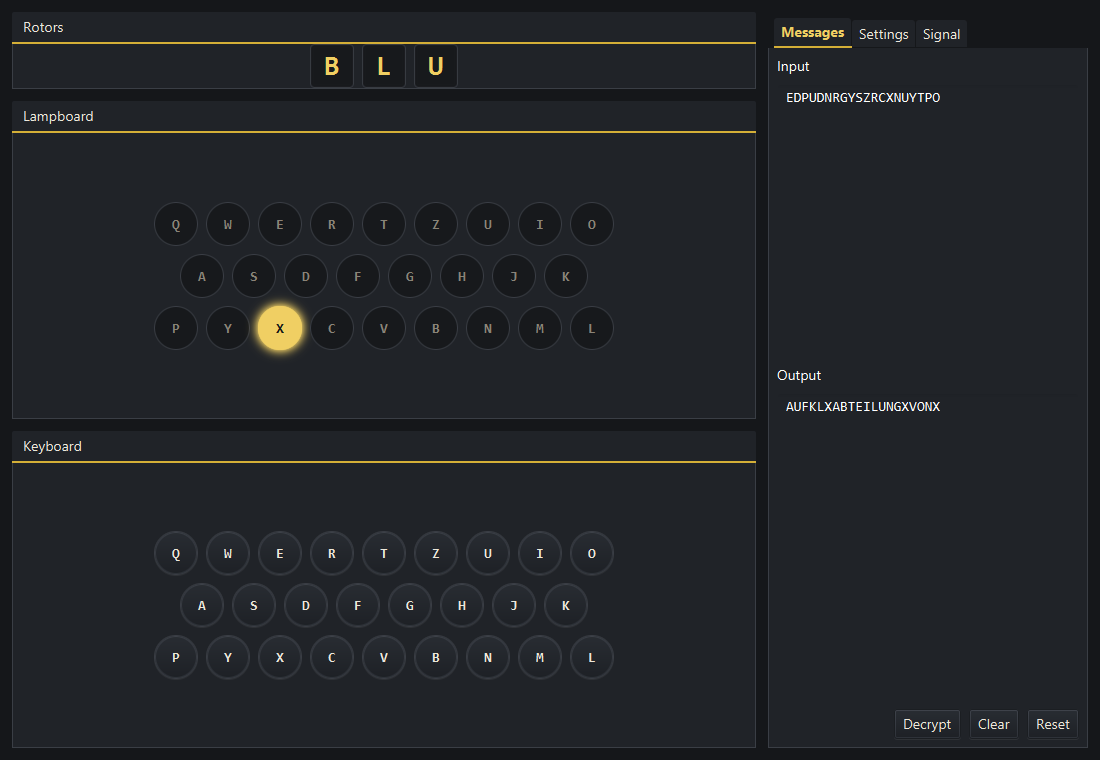
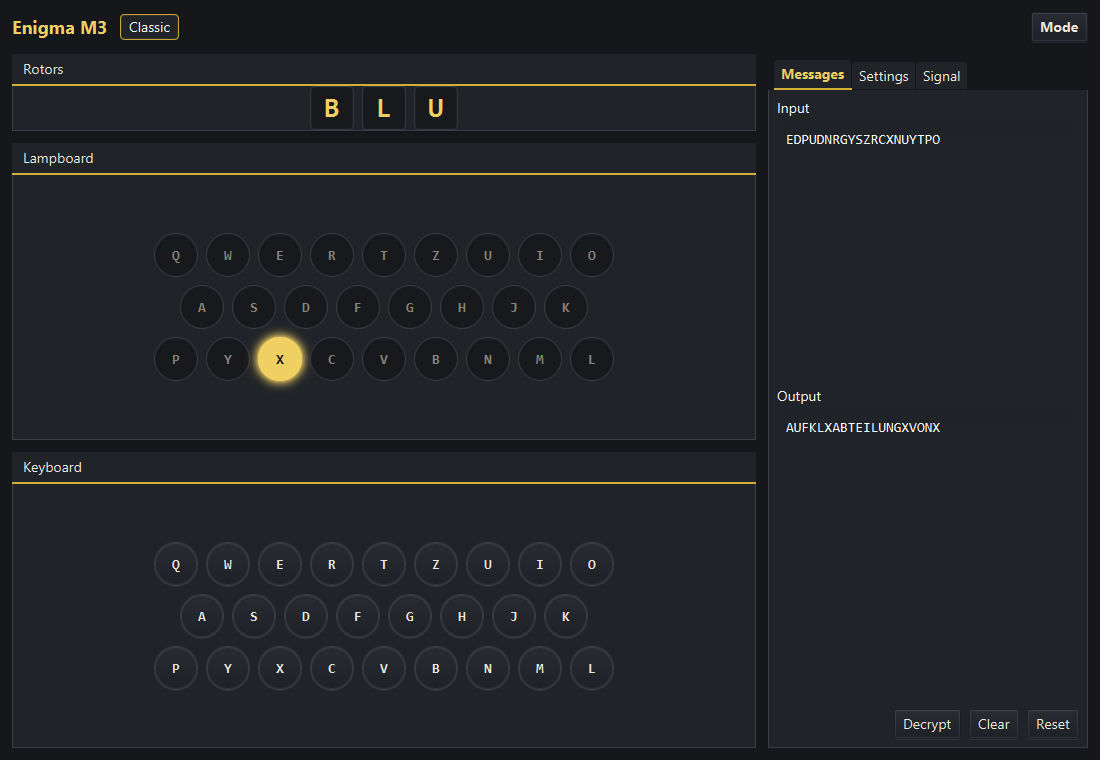
docs: document interface modes and diagram controls

diff --git a/README.md b/README.md
@@ -12,8 +12,9 @@ A desktop simulator of the three-rotor Enigma M3, built to be historically accur
 - Settings are edited apart from the running machine and take effect only when applied.
 - Settings can be saved to and loaded from JSON files.
 - An animated signal path shows every component a letter passes through, with an educational step-by-step mode.
+- Two interface modes in the same window: **Classic**, with the rotor windows and lampboard, and **Diagram**, which draws every contact and wire of the reflector, rotors and plugboard and lights the path of each letter.
 - Every action has a keyboard shortcut. Lamps, rotors and plugboard sockets are described for screen readers.
-- Checked against real messages from 1941 by an automated test suite of more than 300 tests.
+- Checked against real messages from 1941 by an automated test suite of more than 400 tests.
 
 ## Requirements
 
@@ -128,12 +129,32 @@ The **Signal** tab replays the path of the last letter: plugboard, the three rot
 
 The letter is already encrypted when the replay starts, so none of these controls can change the result.
 
+### Switch between Classic and Diagram
+
+![Diagram mode on the way back from the reflector, with the 1941 message decrypted](docs/screenshots/diagram-mode.png)
+
+The **Mode** button at the top right, or **Ctrl+M**, switches the window between **Classic** and **Diagram**. The label next to the title shows the active mode, and the button's tooltip names the other one. The application starts in Classic.
+
+Both modes are views of the same machine. Switching keeps the messages, the rotor positions, the Backspace history, the settings being edited, including ones not applied yet, and the educational mode and speed. It never encrypts a letter, steps a rotor or applies the settings. A key held down while switching types nothing more until it is released.
+
+Diagram mode shows, from left to right, the reflector, the left, middle and right rotors, the plugboard and the keys:
+
+- Each component lists its contacts A-Z. The headings show the rotor in each slot with its position and ring setting, the reflector and the number of plugboard pairs.
+- The wires are the machine's real wiring at its current positions, so they change after every letter, Backspace, Reset or Apply.
+- The keys column is the lampboard of this mode: the output letter lights up and the typed letter is outlined.
+- The path of the last letter is lit step by step, in the order of the Signal tab. The way in is **yellow, solid, with arrows to the left**; the way back is **blue, dashed, with arrows to the right**, so the direction does not depend on colour alone. The line under the diagram describes the step, for example `Step 7 of 9 · Return → · Middle rotor, back: E → M`.
+- **Play**, **Step**, the speed and **Educational** under the diagram control the same replay as the Signal tab.
+- A large window enlarges the diagram. A small one scrolls it instead of shrinking its letters, and follows the step being shown.
+
+The diagram is inspired by the "Enciphering a letter" section of [Coding the Enigma machine - Part 1](https://www.youtube.com/watch?v=sbm2dmkmqgQ&t=1448s) by Coding Cassowary. It is an independent layout, not a copy of the video. The design notes are in [docs/diagram-interface.md](docs/diagram-interface.md).
+
 ### Keyboard shortcuts
 
 The buttons are deliberately left out of the Tab focus order, because a focused button would react to Space while a message is being typed. Use these shortcuts instead. On macOS, use Cmd instead of Ctrl.
 
 | Shortcut | Action |
 |---|---|
+| Ctrl+M | Switch between Classic and Diagram |
 | Ctrl+1, Ctrl+2, Ctrl+3 | Show the Messages, Settings or Signal tab |
 | Ctrl+D | Decrypt |
 | Ctrl+L | Clear |
@@ -193,9 +214,11 @@ The code is split into layers, and each one depends only on the layers below it:
 flowchart TD
     App["App, Launcher<br/>start JavaFX"] --> UI
     subgraph UI["ui"]
-        Views["Views<br/>MainView, KeyboardView, LampboardView,<br/>RotorWindowsView, MessagesView, SettingsView,<br/>PlugboardView, SignalPathView"]
+        Shell["ApplicationShell, SceneInput<br/>Mode button, one keyboard listener"]
+        Views["Views<br/>MainView (Classic), DiagramView, WiringDiagramView,<br/>KeyboardView, LampboardView, RotorWindowsView,<br/>MessagesView, SettingsView, PlugboardView, SignalPathView"]
         Controller["MainController"]
-        ViewModels["viewmodel<br/>MachineViewModel, SettingsViewModel, SignalPlayback"]
+        ViewModels["viewmodel<br/>MachineViewModel, SettingsViewModel,<br/>SignalPlayback, PlaybackOptions"]
+        Shell --> Views
         Views --> Controller
         Views --> ViewModels
         Controller --> ViewModels
@@ -225,7 +248,8 @@ flowchart TD
 | `domain.MachineConfiguration` | Immutable, validated initial settings: rotors, reflector, rings, positions and plugboard |
 | `domain.SteppingMechanism` | Steps the rotors before each letter, including the double step |
 | `domain.EnigmaMachine` | Runs a letter through the whole machine and reports its `SignalTrace` |
-| `domain.SignalTrace` | Every component one letter crossed, used by the Signal tab |
+| `domain.SignalTrace` | Every component one letter crossed, used by the Signal tab and the diagram |
+| `domain.WiringSnapshot` | Where every contact leads at the current positions, worked out by the components themselves so the diagram copies no formula |
 | `engine.EnigmaService` | The running machine, with the rotor positions before each letter so Backspace can undo it |
 | `persistence.ConfigurationFile` | The JSON file format, with a format version |
 | `persistence.JsonConfigurationRepository` | Reads and writes the files with Jackson, replacing a file only after the new one is fully written |
@@ -233,6 +257,10 @@ flowchart TD
 | `ui.viewmodel.MachineViewModel` | Messages, lamp, rotor windows and status shown by the views |
 | `ui.viewmodel.SettingsViewModel` | The settings being edited, kept apart from the running machine until applied |
 | `ui.viewmodel.SignalPlayback` | Which step of the signal path is shown |
+| `ui.viewmodel.PlaybackOptions` | Educational mode and speed, shared by both modes |
+| `ui.ApplicationShell` | The header with the Mode button, and the view of the active mode |
+| `ui.SceneInput` | Listens to the physical keyboard once per window and gives it, with the shortcuts, to the active view only |
+| `ui.DiagramView`, `ui.WiringDiagramView` | Diagram mode: the contacts, wires and lit signal path |
 | `ui.Shortcuts` | The keyboard shortcuts of the buttons |
 | `ui.UnexpectedErrorHandler` | Shows an unexpected error as a dialog instead of a stack trace |
 
@@ -262,6 +290,7 @@ The tests cover the engine, the settings, the file format and the interface:
 - **Engine:** rotor wiring, reflector symmetry, plugboard rules, turnover and double stepping, and real messages from 1941.
 - **Settings and files:** validation, apply and reset, a JSON round trip of 500 random configurations, and damaged, incompatible or locked files.
 - **Interface:** key and mouse events sent through the real view without opening a window, keyboard shortcuts and screen reader descriptions.
+- **Modes:** repeated switching never encrypts twice or loses state, held keys and lost focus, and the drawn wires and lit path match the engine at every step, including all 26 × 26 positions and ring settings of a rotor.
 - **Accessibility:** the theme colours are checked against the WCAG AA contrast ratio.
 
 ## Technologies

diff --git a/docs/diagram-interface.md b/docs/diagram-interface.md
@@ -102,7 +102,19 @@ must use existing domain transforms rather than formulas copied into the UI.
 - [x] Define the implementation composition in the static layout and this specification.
 
 Stage 1 is complete as a design specification. Exact visual fidelity to the
-video has not been verified and is not claimed by this checklist. Stages 2–6
-remain unimplemented.
+video has not been verified and is not claimed by this checklist.
 
-No application code, dependencies or encryption behaviour change in this stage.
+## Implementation status
+
+Stages 2–6 are implemented: the shared input and Mode switch, the static
+diagram, the animated signal path, the mode-switching tests, the layout and
+accessibility refinements, and the README section. Differences from the
+draft above:
+
+- Diagram mode has no separate lampboard; the keys column lights the output
+  letter (see Layout).
+- Contacts sit 14 px apart with 12 px letters, so the whole diagram fits at
+  1100 × 760. At the minimum window size it scrolls and follows the step
+  being shown.
+- The replay controls under the diagram drive the same playback as the
+  Signal tab, and the educational mode and speed are shared by both modes.
